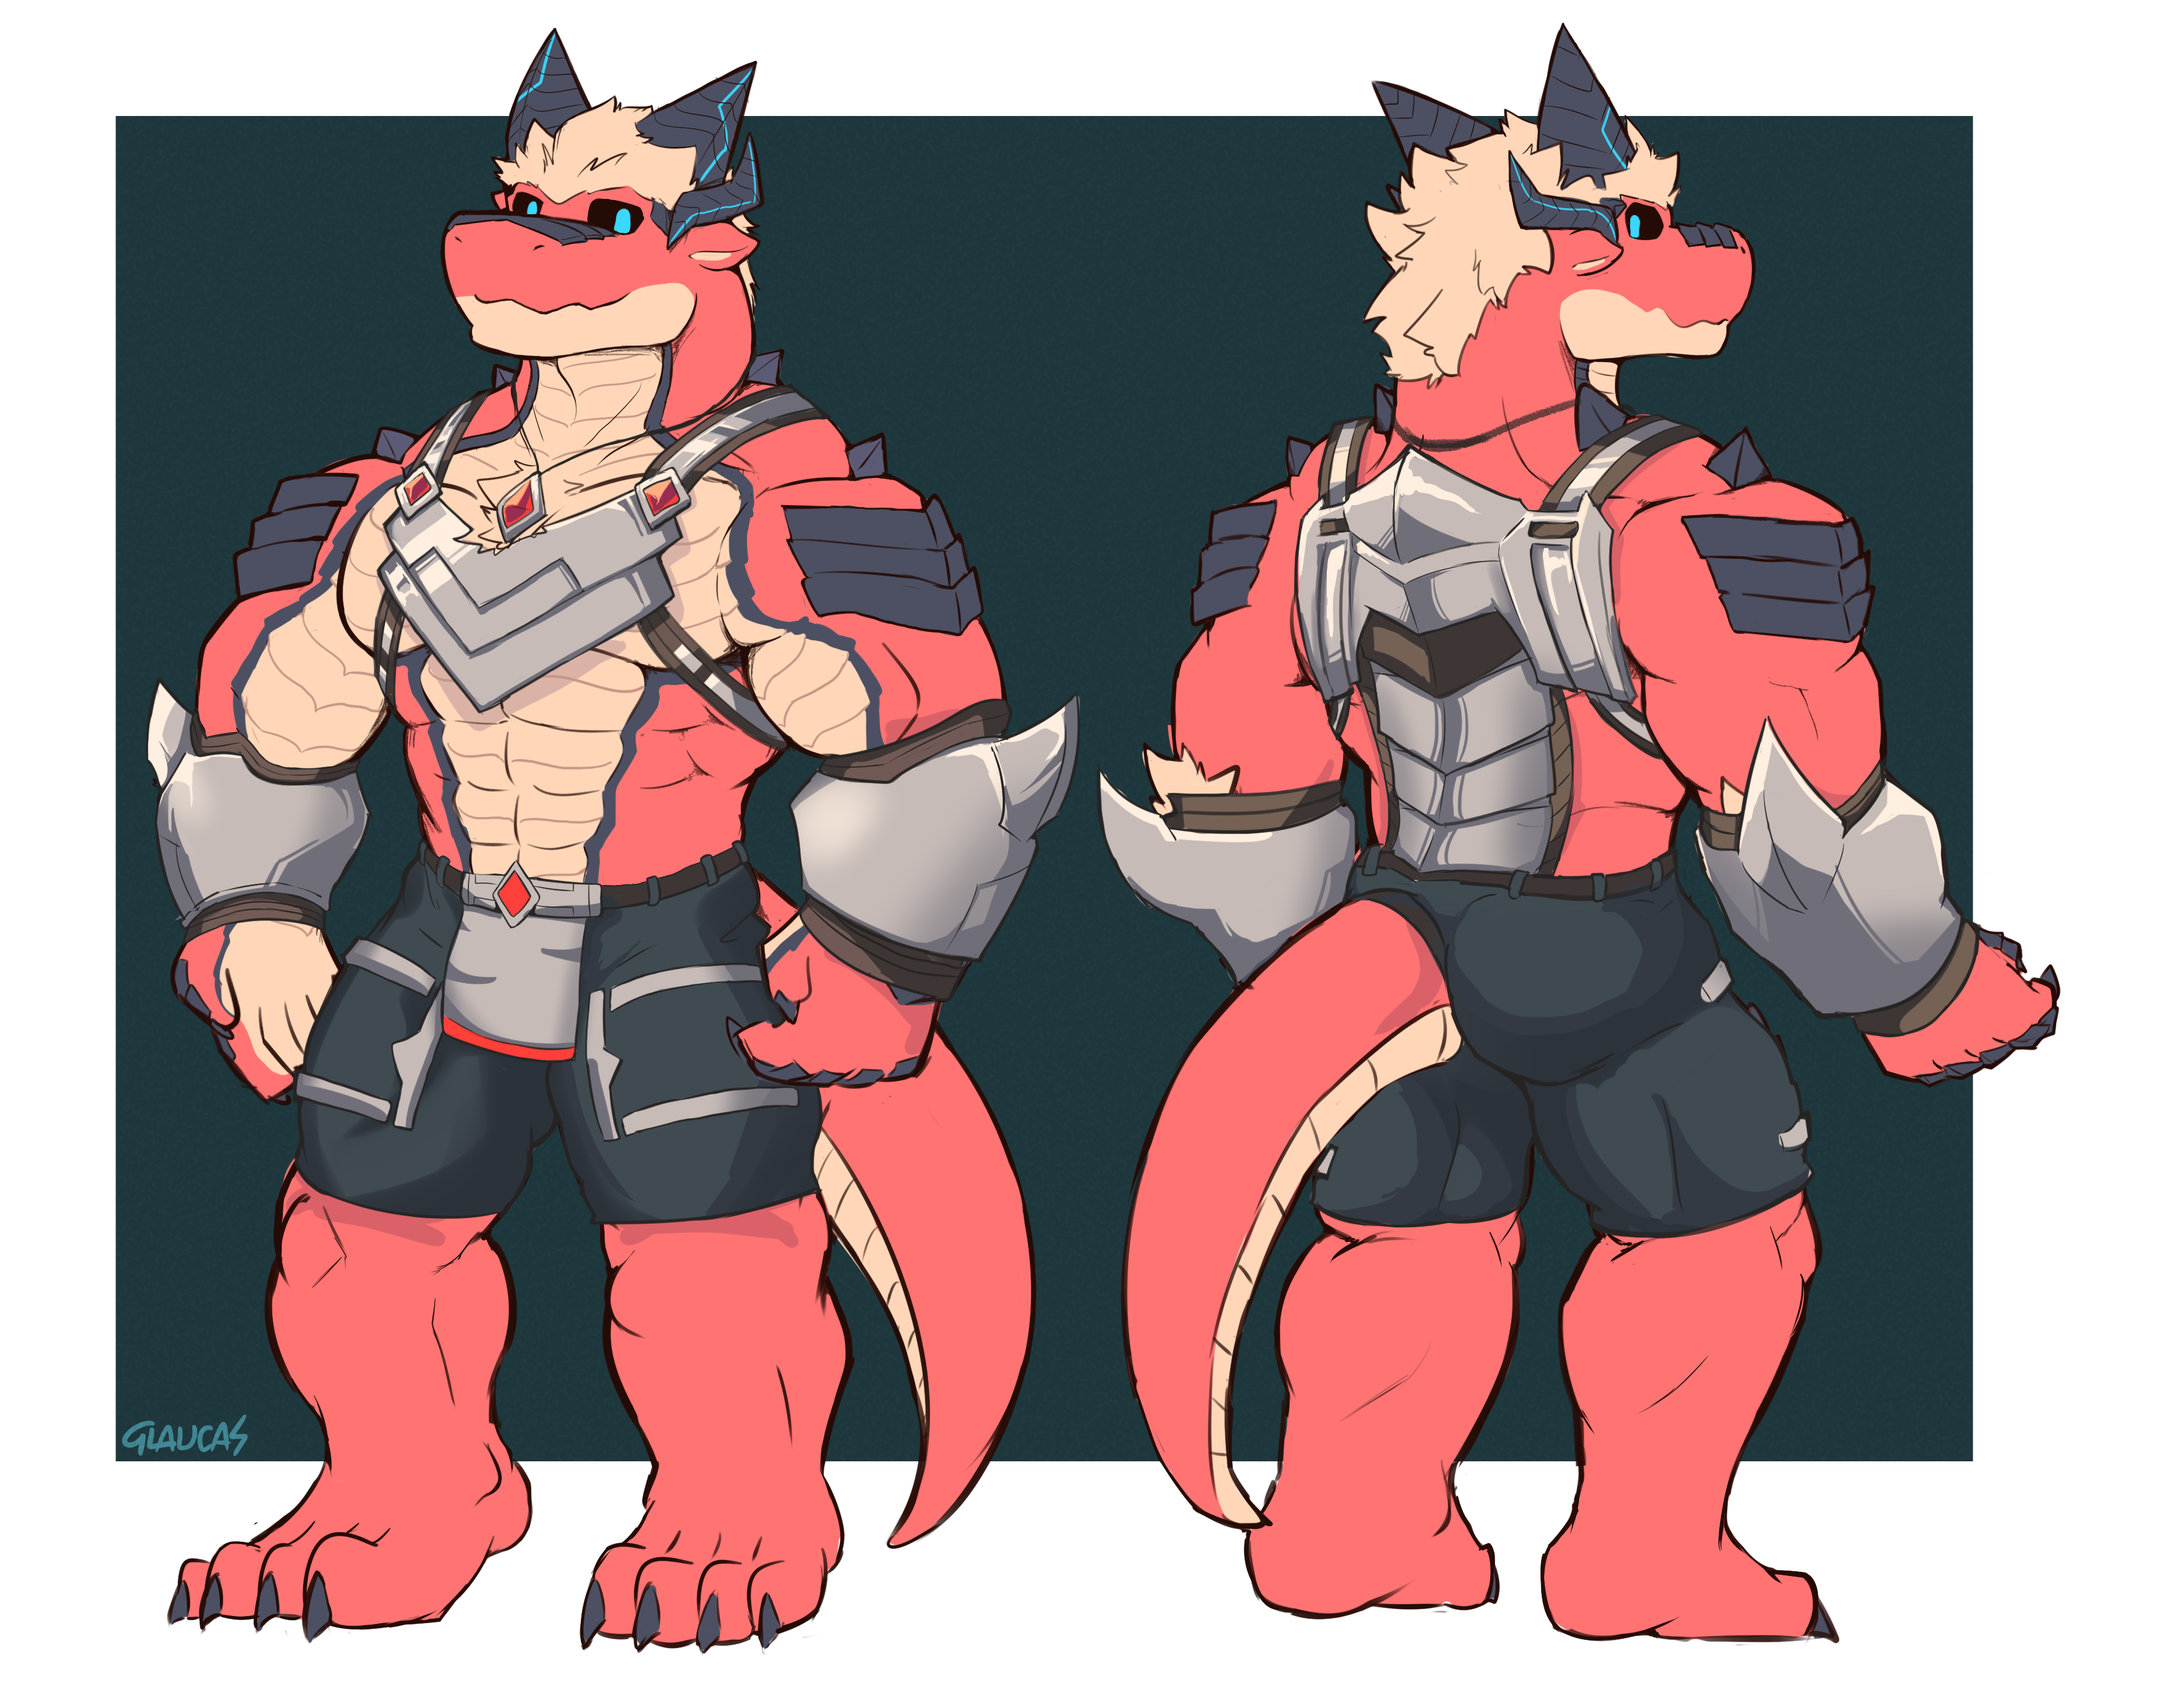
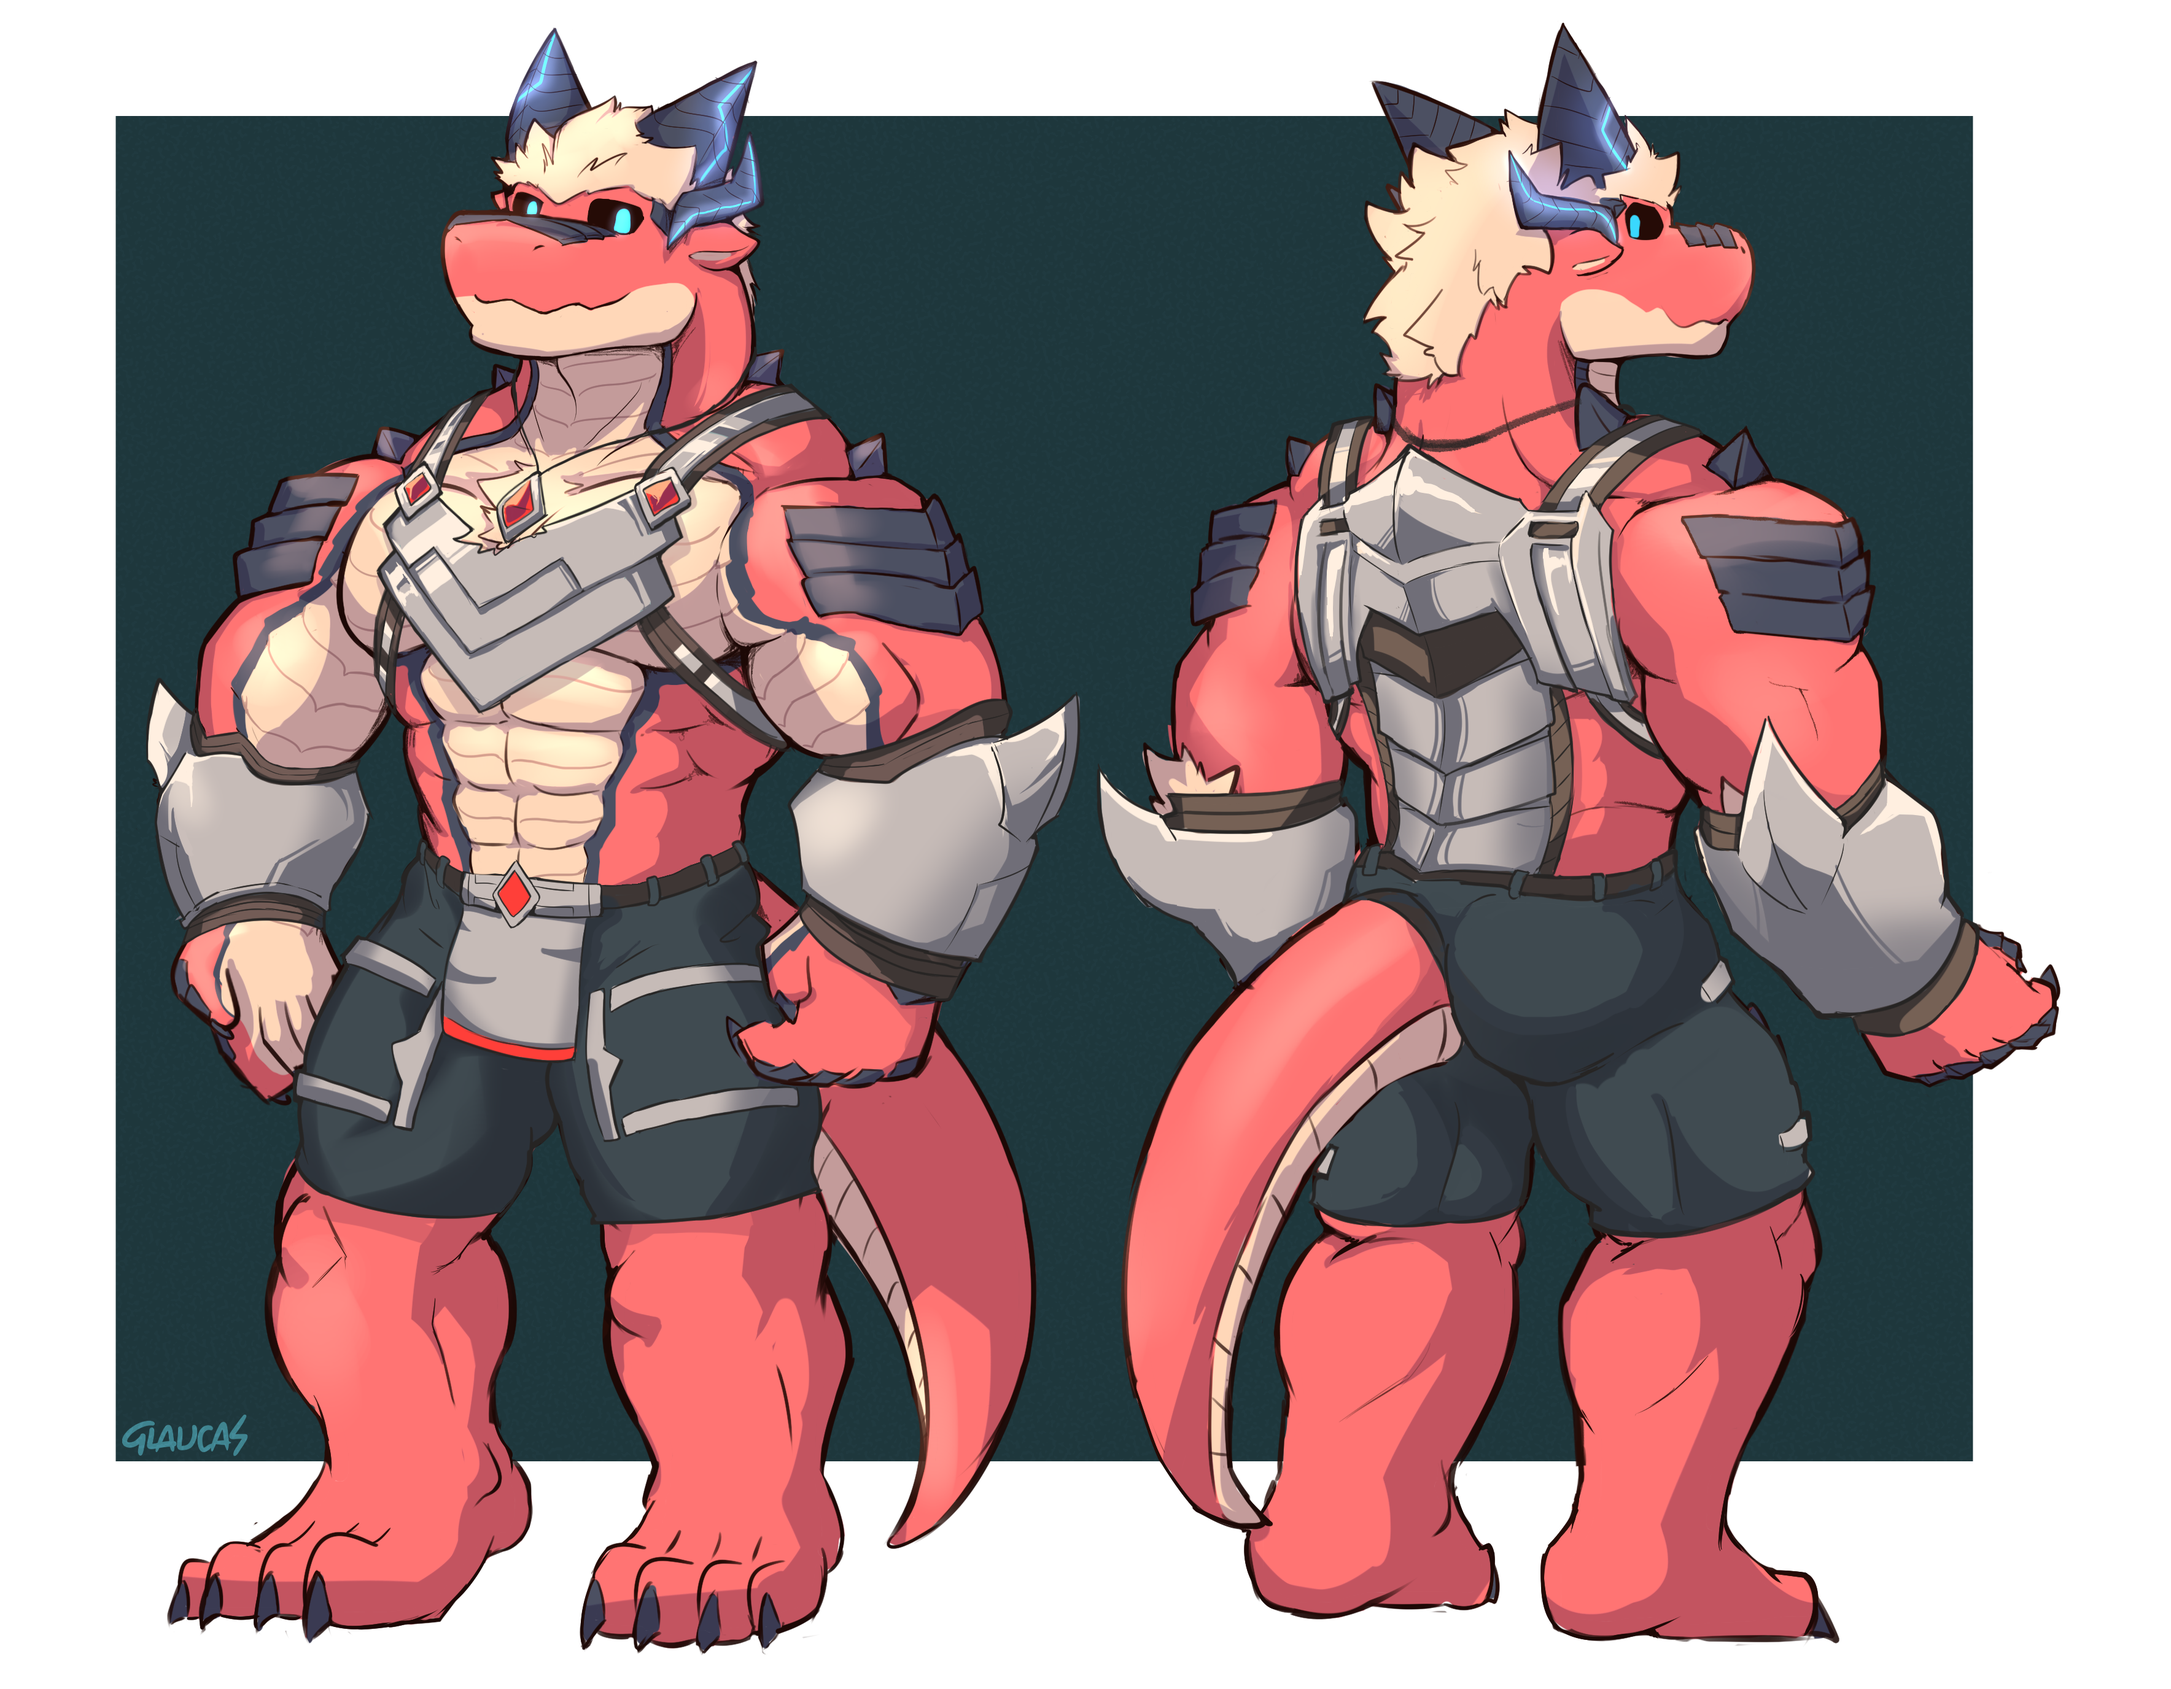
Update readme.md and fix refsheet

diff --git a/README.md b/README.md
@@ -1,8 +1,7 @@
 ## Glauca Blitz
-*🚧 Site still under construction! 🚧*
+Dragon anthro artist
 
-Hello there! Dragon anthro artist who likes to draw strong muscle guys and also cute things.
-That's what I do mostly, 'faceless' & furry big muscle guys.
+🚧 *(Site still under construction!)* 🚧
 
 [![Refsheet Image](/assets/img/glaucablitz-refsheet-1200.png)](/assets/img/glaucablitz-refsheet-full.png)
 
@@ -27,8 +26,8 @@ That's what I do mostly, 'faceless' & furry big muscle guys.
 	<span style="padding: 0.5em"><span class="colorbox darktext" style="background-color: #3AD8FF">#3AD8FF</span> Eyes/Markings</span>
 	<span style="padding: 0.5em"><span class="colorbox lighttext" style="background-color: #3AD8FF">#3AD8FF</span> Clothing</span>
 	<span style="padding: 0.5em"><span class="colorbox darktext" style="background-color: #C6BBB7">#C6BBB7</span> Armor</span>
-	<span style="padding: 0.5em"><span class="colorbox lighttext" style="background-color: #C6BBB7">#C6BBB7</span> Armor Leather</span>
-	<span style="padding: 0.5em"><span class="colorbox darktext" style="background-color: #C6BBB7">#C6BBB7</span> Armor Accent</span>
+	<span style="padding: 0.5em"><span class="colorbox lighttext" style="background-color: #715A55">#715A55</span> Armor Leather</span>
+	<span style="padding: 0.5em"><span class="colorbox darktext" style="background-color: #FF3F39">#FF3F39</span> Armor Accent</span>
 </span>
 
 {% endcapture %}
@@ -36,4 +35,4 @@ That's what I do mostly, 'faceless' & furry big muscle guys.
 
 {% include horz-d-vert-m.html %}
 
-*Site layouting by [hazmatdr.one](https://hazmatdr.one/)*
+*Site layouting by [hazmatdr.one](https://hazmatdr.one/) :3*
